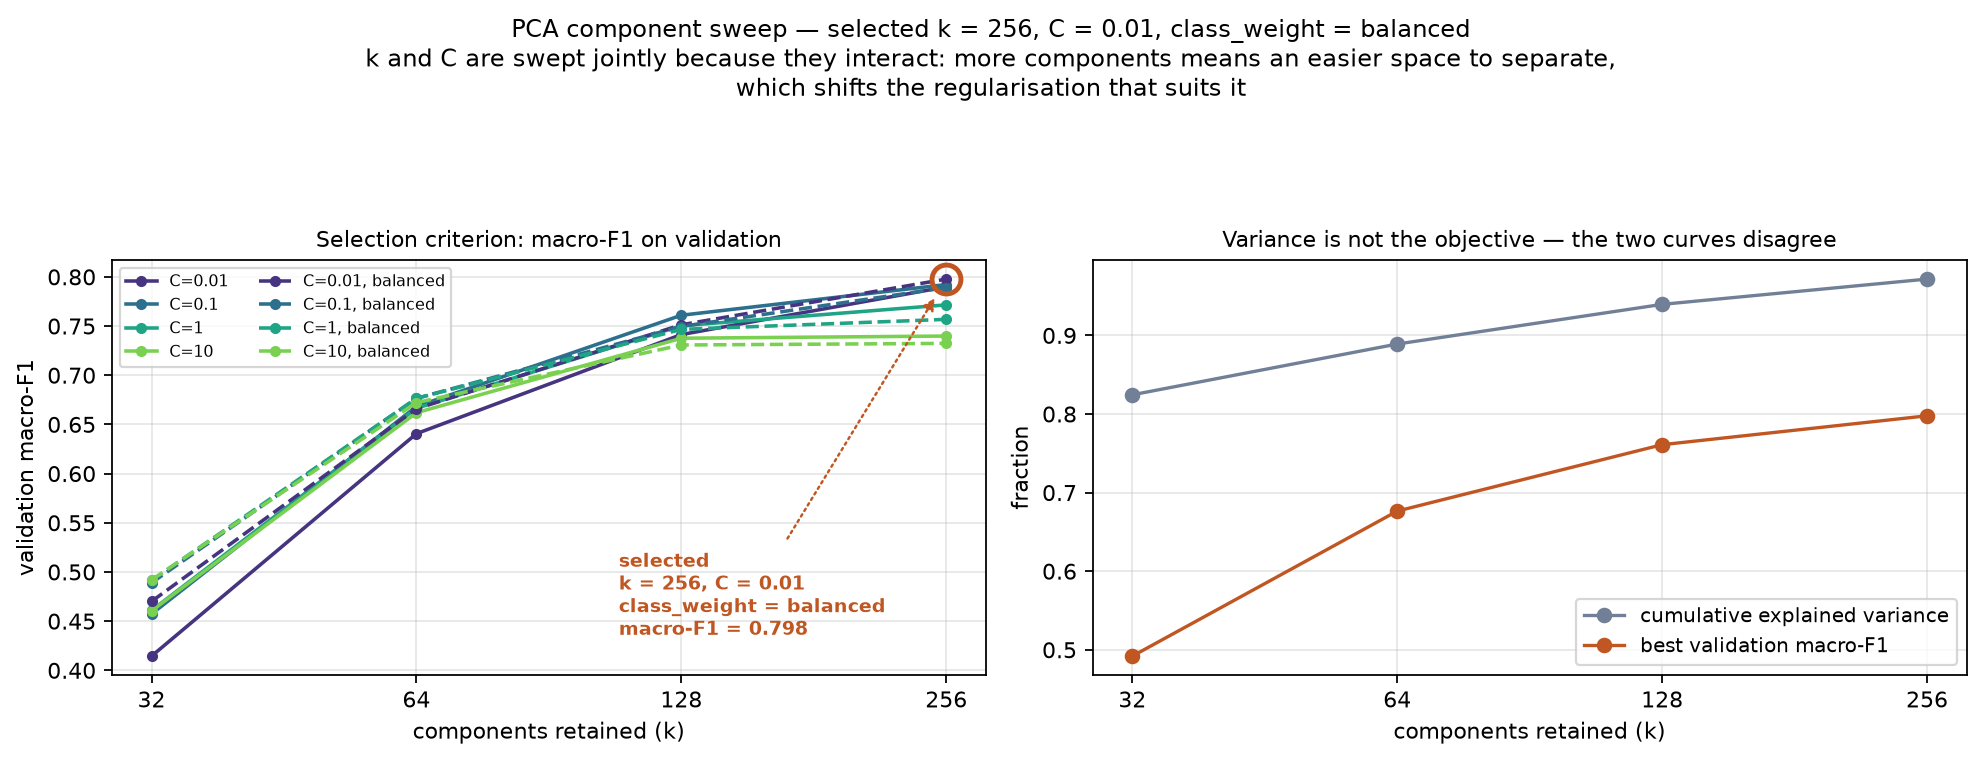
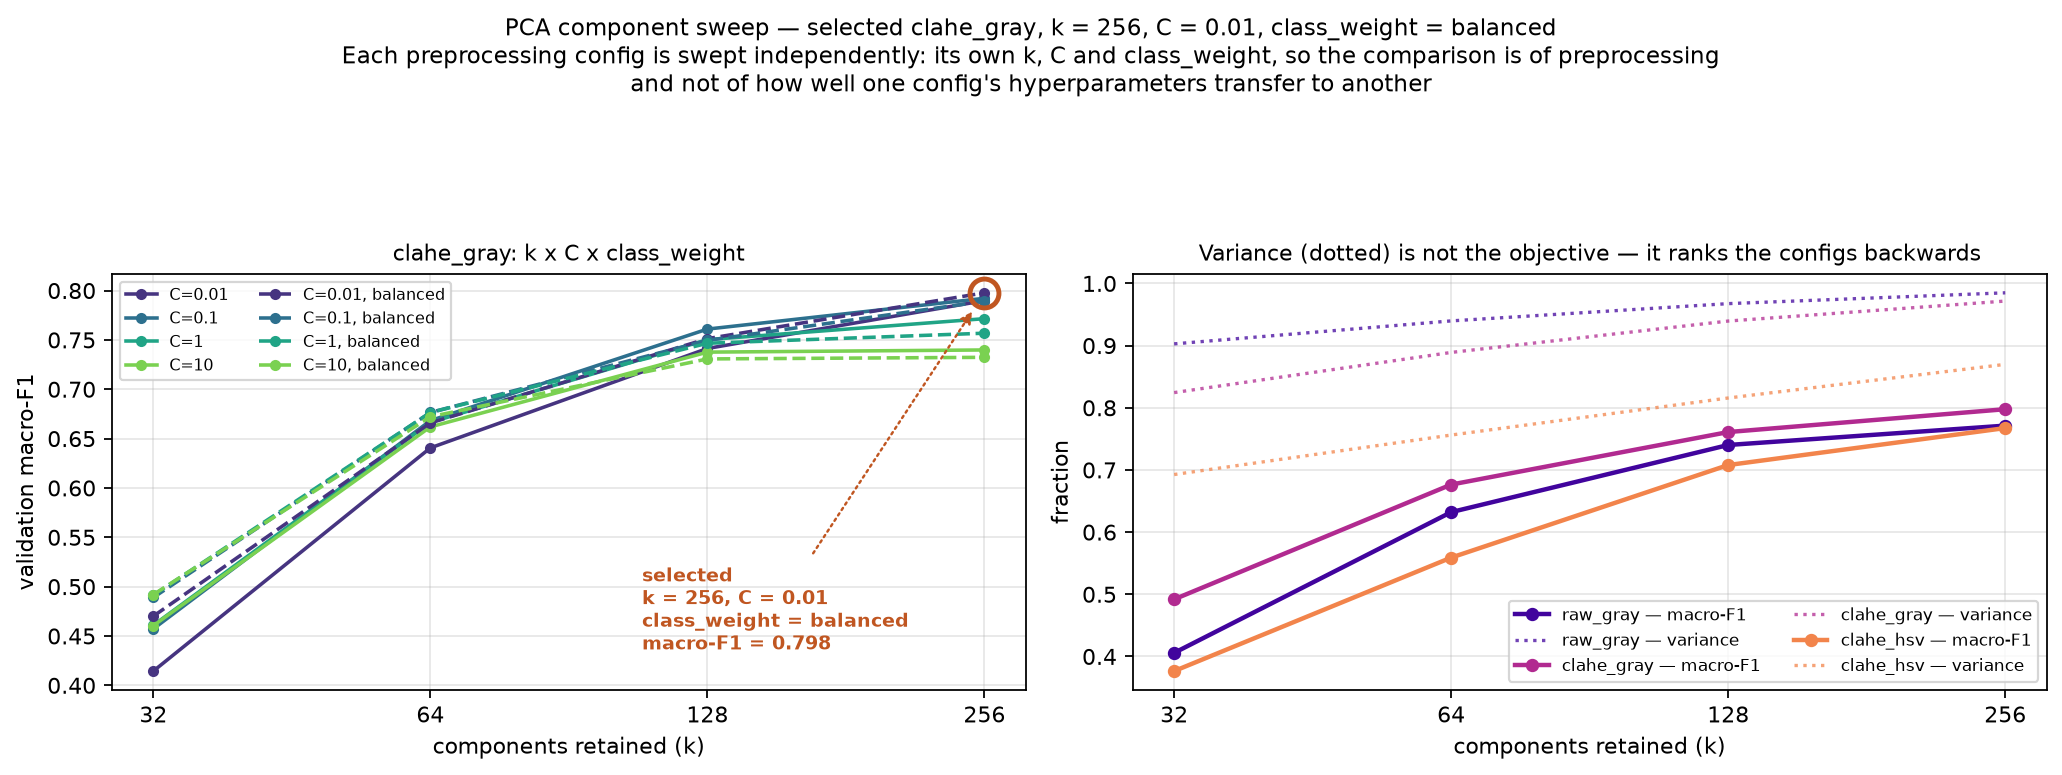
Sweep all three preprocessing configs independently for PCA
Claude-Session: https://claude.ai/code/session_01VkAbUnFvC6rArDeHRzXmzg

diff --git a/scripts/sweep_pca.py b/scripts/sweep_pca.py
@@ -77,23 +77,28 @@ def run_sweep(preproc: str, verbose: bool = True) -> tuple[pd.DataFrame, dict]:
 
 
 def figure(frame: pd.DataFrame, best: dict, out_dir: Path) -> Path:
-    """Accuracy and macro-F1 against k, plus the variance curve they disagree with."""
-    fig, (left, right) = plt.subplots(1, 2, figsize=(12.5, 4.8))
+    """Left: the sweep for the winning config. Right: the three configs against each other.
 
+    The left panel is restricted to the selected preproc deliberately. Overlaying all three
+    on one axis puts three points at every k, and a line drawn through them is not a curve
+    of anything -- an easy way to publish a plot that looks fine and means nothing.
+    """
+    headline = best["preproc"]
+    fig, (left, right) = plt.subplots(1, 2, figsize=(13, 4.9))
+
+    subset = frame[frame["preproc"] == headline]
     for class_weight, style in ((None, "-"), ("balanced", "--")):
-        subset = frame[frame["class_weight"].isna() if class_weight is None
-                       else frame["class_weight"] == class_weight]
-        colours = plt.cm.viridis(np.linspace(0.15, 0.8, subset["C"].nunique()))
-        for colour, (C, group) in zip(colours, subset.groupby("C"), strict=True):
+        rows = subset[subset["class_weight"].isna() if class_weight is None
+                      else subset["class_weight"] == class_weight]
+        colours = plt.cm.viridis(np.linspace(0.15, 0.8, rows["C"].nunique()))
+        for colour, (C, group) in zip(colours, rows.groupby("C"), strict=True):
             group = group.sort_values("n_components")
             left.plot(group["n_components"], group["macro_f1"], style, color=colour,
                       marker="o", ms=4, lw=1.6,
                       label=f"C={C:g}" + (", balanced" if class_weight else ""))
 
-    # Mark the selection with an open ring rather than a filled marker: at k = 256 the
-    # eight curves converge into a few pixels, and anything solid covers the very lines the
-    # reader is trying to compare. The ring sits around the point and the label is placed
-    # clear of the cluster, with an arrow doing the pointing.
+    # Open ring, not a filled marker: at k = 256 the eight curves converge into a few pixels
+    # and anything solid hides the lines the reader is comparing.
     left.plot([best["n_components"]], [best["macro_f1"]], "o", ms=13, mfc="none",
               mec="#c05621", mew=2.2, zorder=6)
     left.annotate(
@@ -107,40 +112,45 @@ def figure(frame: pd.DataFrame, best: dict, out_dir: Path) -> Path:
                     "mutation_scale": 11},
         zorder=7,
     )
-    left.set_xscale("log", base=2)
-    left.set_xticks(COMPONENT_GRID)
-    left.set_xticklabels([str(k) for k in COMPONENT_GRID])
-    left.set_xlabel("components retained (k)")
     left.set_ylabel("validation macro-F1")
-    left.set_title("Selection criterion: macro-F1 on validation", fontsize=10)
+    left.set_title(f"{headline}: k x C x class_weight", fontsize=10)
     left.legend(fontsize=7, ncol=2)
-    left.grid(alpha=0.3)
 
-    # The disagreement: variance saturates long before accuracy does.
-    per_k = frame.groupby("n_components").agg(
-        macro_f1=("macro_f1", "max"), variance=("cumulative_variance", "first")
-    ).reset_index()
-    right.plot(per_k["n_components"], per_k["variance"], "o-", color="#718096",
-               label="cumulative explained variance")
-    right.plot(per_k["n_components"], per_k["macro_f1"], "o-", color="#c05621",
-               label="best validation macro-F1")
-    right.set_xscale("log", base=2)
-    right.set_xticks(COMPONENT_GRID)
-    right.set_xticklabels([str(k) for k in COMPONENT_GRID])
-    right.set_xlabel("components retained (k)")
+    # Right: each config swept independently, so this compares preprocessing rather than how
+    # well one config's hyperparameters transfer to another.
+    configs = ("raw_gray", "clahe_gray", "clahe_hsv")
+    colours = dict(zip(configs, plt.cm.plasma(np.linspace(0.1, 0.7, len(configs))), strict=True))
+    for preproc in configs:
+        rows = frame[frame["preproc"] == preproc]
+        per_k = rows.groupby("n_components").agg(
+            macro_f1=("macro_f1", "max"), variance=("cumulative_variance", "first")
+        ).reset_index()
+        right.plot(per_k["n_components"], per_k["macro_f1"], "o-", color=colours[preproc],
+                   lw=2.0, ms=5, label=f"{preproc} — macro-F1")
+        right.plot(per_k["n_components"], per_k["variance"], ":", color=colours[preproc],
+                   lw=1.5, alpha=0.75, label=f"{preproc} — variance")
+
     right.set_ylabel("fraction")
-    right.set_title("Variance is not the objective — the two curves disagree", fontsize=10)
-    right.legend(fontsize=9, loc="lower right")
-    right.grid(alpha=0.3)
+    right.set_title("Variance (dotted) is not the objective — it ranks the configs backwards",
+                    fontsize=10)
+    right.legend(fontsize=7.5, ncol=2, loc="lower right")
+
+    for axis in (left, right):
+        axis.set_xscale("log", base=2)
+        axis.set_xticks(COMPONENT_GRID)
+        axis.set_xticklabels([str(k) for k in COMPONENT_GRID])
+        axis.set_xlabel("components retained (k)")
+        axis.grid(alpha=0.3)
 
     fig.suptitle(
-        f"PCA component sweep — selected k = {int(best['n_components'])}, "
+        f"PCA component sweep — selected {headline}, k = {int(best['n_components'])}, "
         f"C = {best['C']:g}, class_weight = {best['class_weight']}\n"
-        f"k and C are swept jointly because they interact: more components means an easier "
-        f"space to separate,\nwhich shifts the regularisation that suits it",
-        fontsize=11,
+        f"Each preprocessing config is swept independently: its own k, C and class_weight, "
+        f"so the comparison is of preprocessing\nand not of how well one config's "
+        f"hyperparameters transfer to another",
+        fontsize=10.5,
     )
-    fig.tight_layout(rect=(0, 0, 1, 0.88))
+    fig.tight_layout(rect=(0, 0, 1, 0.86))
     out_dir.mkdir(parents=True, exist_ok=True)
     path = out_dir / "pca_component_sweep.png"
     fig.savefig(path, dpi=160, bbox_inches="tight")
@@ -150,7 +160,10 @@ def figure(frame: pd.DataFrame, best: dict, out_dir: Path) -> Path:
 
 def main() -> int:
     parser = argparse.ArgumentParser(description="PCA n_components sweep (task 4.2).")
-    parser.add_argument("--preproc", default=preprocessing.DEFAULT_PREPROC)
+    parser.add_argument("--preproc", nargs="+", default=list(preprocessing.PREPROC_CONFIGS),
+                        help="sweep each config separately; all three by default, so the "
+                             "ablation at 8.2 compares preprocessing rather than how well "
+                             "one config's hyperparameters transfer to another")
     parser.add_argument("--out", type=Path, default=config.RESULTS_DIR / "sweeps")
     parser.add_argument("--figures", type=Path, default=config.FIGURES_DIR / "pca")
     parser.add_argument("--from-csv", action="store_true",
@@ -168,13 +181,23 @@ def main() -> int:
         frame = pd.read_csv(csv_path)
         best = frame.loc[frame["macro_f1"].idxmax()].to_dict()
     else:
-        frame, best = run_sweep(args.preproc)
+        frames = []
+        for preproc in args.preproc:
+            print(f"\n=== {preproc} ===")
+            preproc_frame, _ = run_sweep(preproc)
+            frames.append(preproc_frame)
+        frame = pd.concat(frames, ignore_index=True)
+        best = frame.loc[frame["macro_f1"].idxmax()].to_dict()
         frame.to_csv(csv_path, index=False)
 
-    print("\n--- best per k (by macro-F1) ---")
-    per_k = frame.loc[frame.groupby("n_components")["macro_f1"].idxmax()]
-    print(per_k[["n_components", "C", "class_weight", "macro_f1", "accuracy",
+    print("\n--- best per (preproc, k) by macro-F1 ---")
+    per_k = frame.loc[frame.groupby(["preproc", "n_components"])["macro_f1"].idxmax()]
+    print(per_k[["preproc", "n_components", "C", "class_weight", "macro_f1", "accuracy",
                  "cumulative_variance", "fit_seconds"]].to_string(index=False))
+    print("\n--- best per preproc ---")
+    per_p = frame.loc[frame.groupby("preproc")["macro_f1"].idxmax()]
+    print(per_p[["preproc", "n_components", "C", "class_weight", "macro_f1",
+                 "accuracy"]].to_string(index=False))
 
     unconverged = frame[~frame["converged"]]
     if len(unconverged):

diff --git a/src/gtsrb/preprocessing.py b/src/gtsrb/preprocessing.py
@@ -197,6 +197,10 @@ PREPROC_CONFIGS: dict[str, PreprocConfig] = {
     ),
 }
 
+#: The headline preprocessing config. **Measured, not assumed** (task 4.2): each of the
+#: three was swept independently over k x C x class_weight, and clahe_gray won on validation
+#: macro-F1 -- 0.7977 against 0.7713 (raw_gray) and 0.7674 (clahe_hsv). Was previously a bare
+#: default with no justification. See docs/report-material/11-pca.md section 7.
 DEFAULT_PREPROC = "clahe_gray"
 
 

diff --git a/docs/report-material/11-pca.md b/docs/report-material/11-pca.md
@@ -352,7 +352,8 @@ codebase makes.
 ## 7. Task 4.2 — selecting *k*
 
 `scripts/sweep_pca.py` → `results/sweeps/pca_components.csv`,
-`figures/report/pca_component_sweep.png`. 32 grid points, ~10 min.
+`figures/report/pca_component_sweep.png`. **96 grid points** (3 preprocs × 4 *k* × 4 `C` ×
+2 `class_weight`), ~30 min. All 96 converged.
 
 **Selected: k = 256, C = 0.01, `class_weight="balanced"` — validation macro-F1 0.7977,
 accuracy 0.8442.**
@@ -368,12 +369,67 @@ The cost of getting this wrong is concrete. At the arbitrary default `C = 1`, k 
 best configuration by **2.6 pp** — comparable to the gap between whole methods this study
 sets out to measure.
 
+`clahe_gray`, best per *k*:
+
 | *k* | best C | class_weight | macro-F1 | accuracy | cum. variance |
 |---|---|---|---|---|---|
 | 32 | 10 | balanced | 0.4919 | 0.5627 | 0.824 |
 | 64 | 0.1 | balanced | 0.6765 | 0.7257 | 0.889 |
 | 128 | 0.1 | — | 0.7610 | 0.8037 | 0.940 |
 | **256** | **0.01** | **balanced** | **0.7977** | **0.8442** | 0.972 |
+
+### 7.1b All three preprocessing configs are swept independently
+
+**Why, and it is not tidiness.** `DEFAULT_PREPROC = "clahe_gray"` was a bare assignment in
+`preprocessing.py` with no justification anywhere — inherited from task 2.2 and then silently
+promoted to "the headline config". Sweeping only that config would also have handed task 8.2
+a confound: running `raw_gray` and `clahe_hsv` with hyperparameters selected on `clahe_gray`
+measures preprocessing **plus how well those hyperparameters transfer**, which is exactly the
+confound Q4 closed for `C` across methods, reappearing across preprocessing configs. The
+configs have very different spectra (80 % of variance at 8 / 25 / 106 components, §3.2), so
+there was no reason to expect one *k* to suit all three.
+
+| preproc | best *k* | best C | class_weight | macro-F1 | accuracy | variance @256 |
+|---|---|---|---|---|---|---|
+| **`clahe_gray`** | 256 | **0.01** | **balanced** | **0.7977** | **0.8442** | 0.972 |
+| `raw_gray` | 256 | **0.10** | — | 0.7713 | 0.8140 | 0.985 |
+| `clahe_hsv` | 256 | **0.01** | — | 0.7674 | 0.8257 | 0.870 |
+
+**The default is vindicated — but now on evidence rather than habit.** `clahe_gray` wins by
+2.64 pp macro-F1 over `raw_gray`.
+
+**The confound was real, and is worth about a third of the effect being measured:**
+
+| preproc | at its own best | borrowing `clahe_gray`'s (k=256, C=0.01, balanced) | cost |
+|---|---|---|---|
+| `raw_gray` | 0.7713 | 0.7610 | **−1.03 pp** |
+| `clahe_hsv` | 0.7674 | 0.7587 | **−0.87 pp** |
+
+Against a preprocessing effect of 2.64 pp, borrowing hyperparameters would have contributed
+a ~1 pp artifact — **roughly 39 % of the signal 8.2 is trying to measure**, and in the
+direction that flatters the config the hyperparameters came from. Task 8.2 must therefore
+tune per (method, preproc) cell, not per method.
+
+**`clahe_hsv` beats `raw_gray` on accuracy (0.8257 vs 0.8140) but loses on macro-F1
+(0.7674 vs 0.7713).** Colour helps the common classes and not the rare ones — worth a line in
+the ablation discussion, and a reminder that the two metrics can disagree on ordering.
+
+### 7.1c Finding — variance ranks the configs *backwards*
+
+The right panel of the sweep figure is the clearest version of the §3.2 point:
+
+| preproc | variance @ k=256 | macro-F1 | rank by variance | rank by macro-F1 |
+|---|---|---|---|---|
+| `raw_gray` | **0.985** (best) | 0.7713 | 1 | 2 |
+| `clahe_gray` | 0.972 | **0.7977** (best) | 2 | 1 |
+| `clahe_hsv` | 0.870 (worst) | 0.7674 | 3 | 3 |
+
+The config whose subspace reconstructs its input *best* classifies *worse* than the one that
+reconstructs it less well. Choosing preprocessing — or *k* — by explained variance would
+have picked `raw_gray`, the wrong answer. **Explained variance measures reconstruction;
+nothing about it is a claim on discriminability.** This is the third independent instance
+(§3.2 CLAHE, §7.3 the *k* curve, and now the config ranking), which makes it a reportable
+finding rather than an anecdote.
 
 ### 7.2 Caveat: k = 256 is the edge of the grid, and the curve is still rising
 

diff --git a/docs/PROJECT_TASKS.md b/docs/PROJECT_TASKS.md
@@ -362,6 +362,16 @@ buckets (task 9.4). Images themselves are used with the framing GTSRB provides.
       0.49→0.80, so the "keep 95 % of variance" heuristic would have picked ~155 components
       and lost accuracy. `balanced` won by only 0.55 pp and loses at k=128 — recorded as
       within noise. All 32 grid points converged. 12 tests.
+      **All three preprocessing configs swept independently** (96 grid points): `clahe_gray`
+      wins (0.7977) over `raw_gray` (0.7713) and `clahe_hsv` (0.7674), so `DEFAULT_PREPROC`
+      is now *measured* rather than the bare unjustified assignment it had been. Each config
+      selects **different** hyperparameters (C = 0.01 / 0.10 / 0.01; balanced only for
+      `clahe_gray`), and borrowing `clahe_gray`'s costs `raw_gray` **1.03 pp** and
+      `clahe_hsv` **0.87 pp** — against a preprocessing effect of 2.64 pp, i.e. **~39 % of
+      the signal 8.2 measures**, biased toward the config the hyperparameters came from.
+      **8.2 must therefore tune per (method, preproc) cell.** Also: variance ranks the three
+      configs *backwards* (`raw_gray` has the best variance and the worse macro-F1), a third
+      independent instance of variance ≠ discriminability.
       See `docs/report-material/11-pca.md` §7.
 > **Classifier protocol (Q4, decided at 4.1).** `C` is **tuned per method** on validation,
 > and the chosen value is recorded per method in `results.csv` and reported alongside Table 1.
@@ -418,7 +428,10 @@ buckets (task 9.4). Images themselves are used with the framing GTSRB provides.
       it. A `raw_gray`/`clahe_gray` mix-up is otherwise silent — both are 2304 dims, so no
       shape check fires and the results look plausible. This is the one place it can happen,
       because 8.2 loops over all three configs.
-- [ ] **8.2** Preprocessing ablation: best 2 methods × 3 configs. **Its job is a
+- [ ] **8.2** Preprocessing ablation: best 2 methods × 3 configs. **Tune per (method,
+      preproc) cell**, not per method — measured at 4.2: reusing one config's hyperparameters
+      on another costs ~1 pp, about 39 % of the preprocessing effect itself, and biases toward
+      whichever config they were selected on. **Its job is a
       ranking-stability check, not an accuracy sweep**: show the *ranking* of methods within
       each stressor is unchanged across `raw_gray` / `clahe_gray` / `clahe_hsv`, so the
       conclusion is not an artifact of one preprocessing choice. Claim ordinally — with one

diff --git a/docs/report-material/08-preprocessing.md b/docs/report-material/08-preprocessing.md
@@ -296,3 +296,31 @@ which is real but not decisive on its own. The value is mostly elsewhere:
 motion blur in task 3.2 is a *stressor* (a degradation applied at test time to measure
 robustness). They are different operations serving opposite purposes and must not be
 conflated in the report — one is part of the method, the other is part of the measurement.
+
+
+---
+
+## Addendum (task 4.2) — `clahe_gray` as the headline config is now measured
+
+This note originally defined the three configs without saying which one the headline results
+would use; `DEFAULT_PREPROC = "clahe_gray"` was a bare assignment in `preprocessing.py` with
+no justification. Task 4.2 swept all three independently (each with its own *k*, `C` and
+`class_weight`) and settled it on validation macro-F1:
+
+| preproc | best *k* | best C | class_weight | macro-F1 | accuracy |
+|---|---|---|---|---|---|
+| **`clahe_gray`** | 256 | 0.01 | balanced | **0.7977** | **0.8442** |
+| `raw_gray` | 256 | 0.10 | — | 0.7713 | 0.8140 |
+| `clahe_hsv` | 256 | 0.01 | — | 0.7674 | 0.8257 |
+
+The default was right, but it is now right *for a stated reason*. Two consequences for the
+ablation this note feeds (9.7):
+
+1. **The three configs select different hyperparameters**, and reusing one config's on
+   another costs ~1 pp — about 39 % of the 2.64 pp preprocessing effect. The ablation must
+   tune per cell or it measures hyperparameter transfer alongside preprocessing.
+2. **`clahe_hsv` beats `raw_gray` on accuracy but loses on macro-F1**, i.e. colour helps the
+   common classes and not the rare ones. The two metrics rank these configs differently, so
+   the ablation must say which it is reporting.
+
+Full detail and the variance-ranks-backwards finding: `11-pca.md` §7.1b–7.1c.
